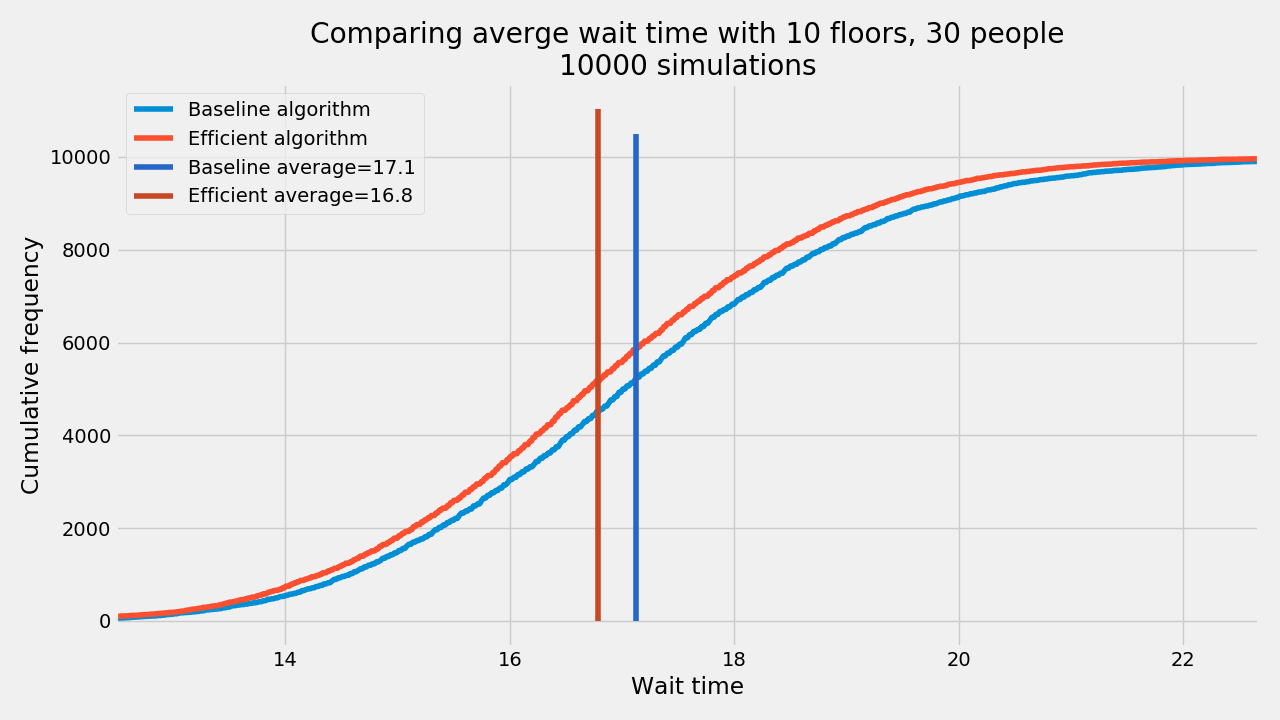
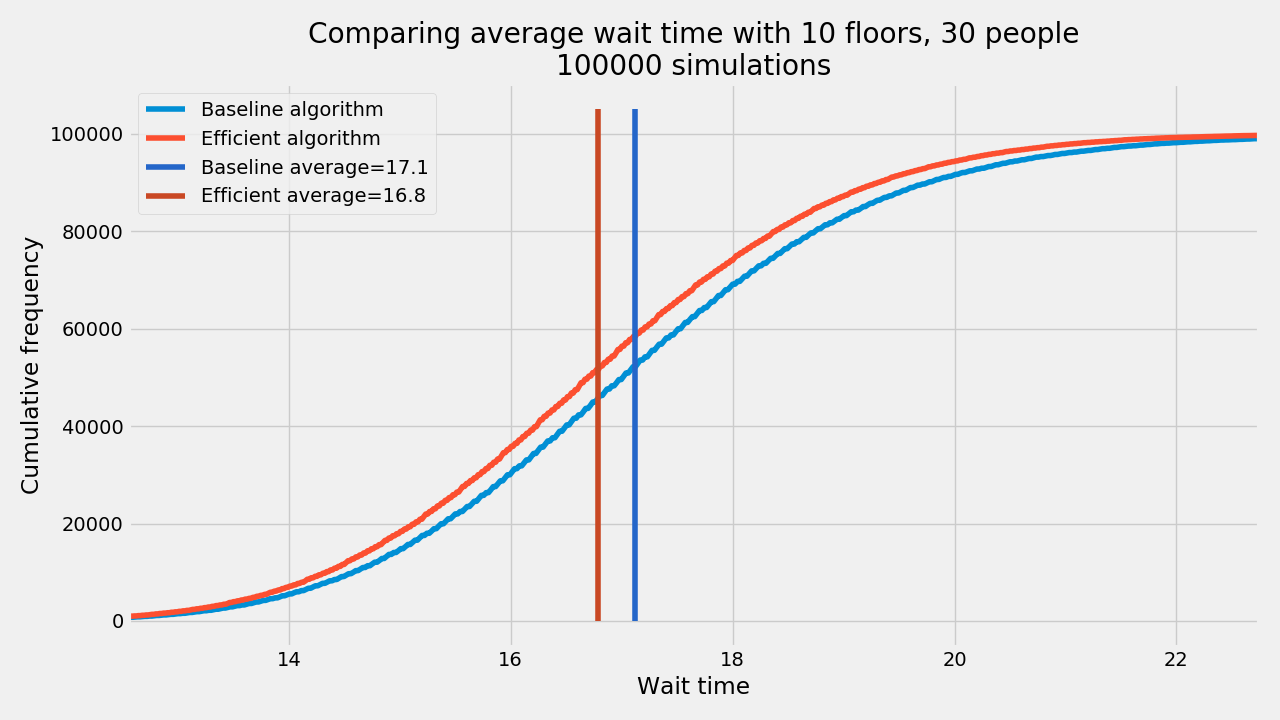
Bug fixes & updates

diff --git a/graphs.py b/graphs.py
@@ -11,7 +11,7 @@ from Elevator.mechanical_control_model import single_simulation
 def realise_iterations(algorithm, people, floors, iterations):
     """This method runs many simulations on 1 set of (floors, people) to find an average"""
     starting_time = time.perf_counter()
-    results = [single_simulation(algorithm, people, floors, False) for j in
+    results = [single_simulation(algorithm, people, floors, 6, False) for j in
                range(round(iterations / 2))]
     print("Half way there on {}(foors={}, people={}) in {}s".format(algorithm, floors,
                                                                     people, round(
@@ -28,7 +28,7 @@ def realise_iterations_multicored(algorithm, people, floors, iterations):
     """
     starting_time = time.perf_counter()
     p = multiprocessing.Pool(multiprocessing.cpu_count() - 4)
-    args = [(algorithm, people, floors, False) for j in range(round(iterations / 2))]
+    args = [(algorithm, people, floors, 6, False) for j in range(round(iterations / 2))]
     results = p.starmap(single_simulation, args)
     p.close()
     p.join()
@@ -246,9 +246,10 @@ def graph_both_algorithms_frequency_curve(people, floors, iterations):
     efficient_points = find_data_points(efficient_results)
     plt.plot(*baseline_points, label="Baseline algorithm")
     plt.plot(*efficient_points, label="Efficient algorithm")
-    plt.plot([baseline_average, baseline_average], [0, plt.ylim()[1]], color='#2466c9',
+    ylim = plt.ylim()[1]
+    plt.plot([baseline_average, baseline_average], [0, ylim], color='#2466c9',
              label='Baseline average=' + str(round(baseline_average, 1)))
-    plt.plot([efficient_average, efficient_average], [0, plt.ylim()[1]], color='#c94824',
+    plt.plot([efficient_average, efficient_average], [0, ylim], color='#c94824',
              label='Efficient average=' + str(round(efficient_average, 1)))
     plt.legend()
 
@@ -277,9 +278,9 @@ def graph_both_algorithms_frequency_curve(people, floors, iterations):
     plt.xlabel('Wait time')
     plt.ylabel('Cumulative frequency')
     plt.title(
-        'Comparing averge wait time with {} floors, {} people\n{} simulations'.format(floors,
-                                                                                      people,
-                                                                                      iterations))
+        'Comparing average wait time with {} floors, {} people\n{} simulations'.format(floors,
+                                                                                       people,
+                                                                                       iterations))
     plt.show()
 
 

diff --git a/elevator.py b/elevator.py
@@ -5,6 +5,8 @@ if __name__ == "__main__":
     print("Simulation started at {}".format(datetime.now().strftime("%H:%M:%S")))
     start_time = time.perf_counter()
 
+    # These are examples of simulations you could run. The heatmap ones take a while to calculate
+
     single_simulation(algorithm="efficient", number_of_people=30, number_of_floors=10)
     heatmap("baseline", 100, 100)
     heatmap_comparison(max_people=47, max_floors=47)
@@ -12,7 +14,7 @@ if __name__ == "__main__":
 
     graph_single_algorithm_histogram("baseline", people=30, floors=10, iterations=100_000)
     graph_one_algorithm_frequency_curve("baseline", 30, 10, 10_000)
-    graph_both_algorithms_frequency_curve(30, 10, 10_000)
+    graph_both_algorithms_frequency_curve(30, 10, 100_000)
     boxplot_comparison(30, 10, 1_000)
 
     finish_time = time.perf_counter()

diff --git a/README.md b/README.md
@@ -21,7 +21,7 @@ This line will run and animate a single simulation showing the efficient algorit
 single_simulation(algorithm="efficient", number_of_people=30, number_of_floors=10)
 ```
 Example output: 
-![Screenshot of simulation](simulation-example.PNG)
+![Screenshot of simulation](images/simulation-example.PNG)
 
  ### Heatmaps to graph
 
@@ -48,7 +48,7 @@ interpolate_heatmap(*heatmap_comparison(max_people=100, max_floors=100))
 
 This line will draw a histogram plot of the frequency of wait times for an algorithm. This is to see the distribution of wait times, and show the average.
 ```
-graph_single_algorithm_histogram("baseline", people=30, floors=10, iterations=100_000)
+graph_single_algorithm_histogram("efficient", people=30, floors=10, iterations=100_000)
 ```
 ![Example histogram](images/histogram-example.png)
 
@@ -61,7 +61,7 @@ graph_one_algorithm_frequency_curve("baseline", 30, 10, 10_000)
 
 This line will draw two frequency of the wait times comparing the baseline to my efficient algorithm, as well as their averages.
 ```
-graph_both_algorithms_frequency_curve(30, 10, 10_000)
+graph_both_algorithms_frequency_curve(30, 10, 100_000)
 ```
 Example output:
 ![A frequency curve comparing the baseline to my efficient algorithm](images/s-curve-both-example.png)
